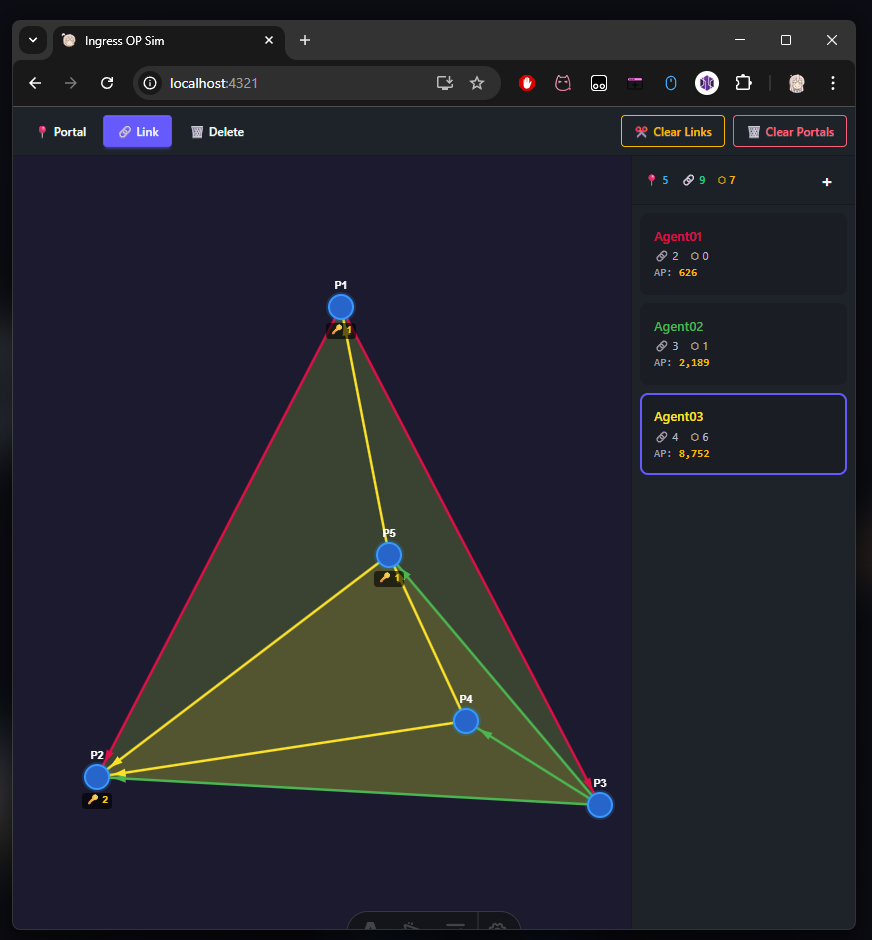
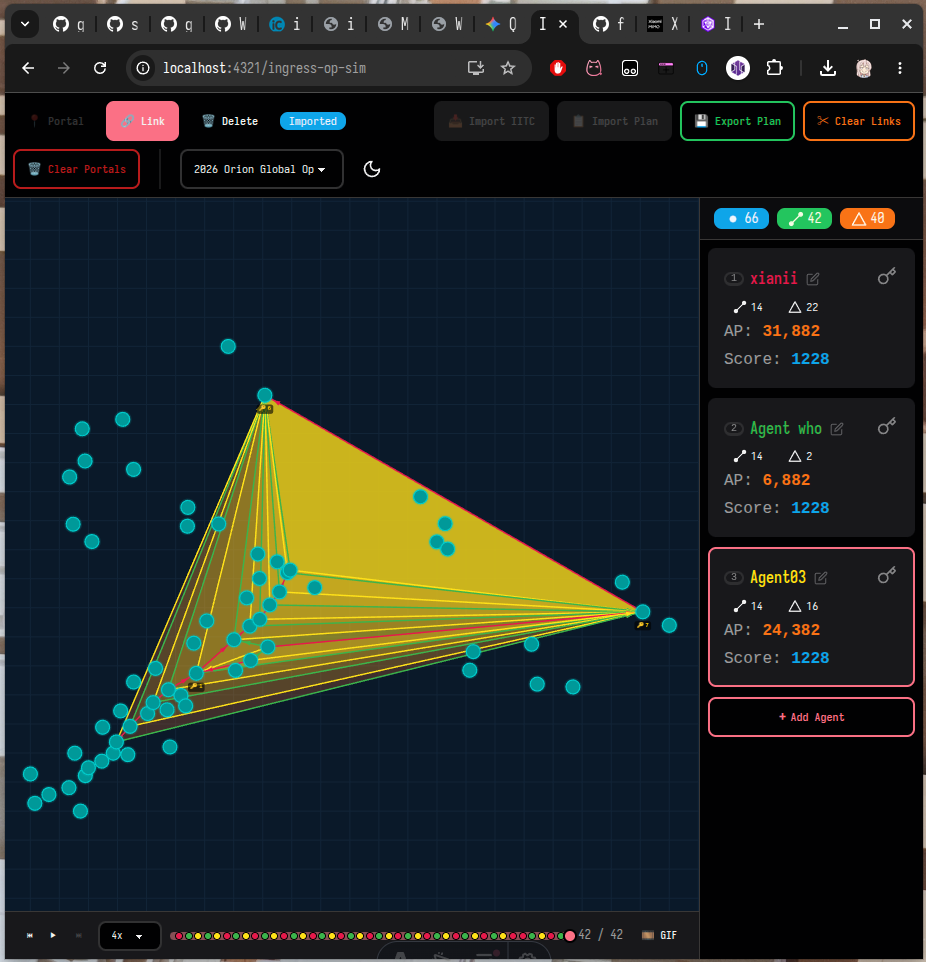
docs: update README with enhanced branding and feature list
- Improve README layout with centered HTML elements and logo
- Add direct link to the hosted application
- Expand feature list to include scoring, timeline playback, and export capabilities
- Update tool descriptions to reflect IITC and plan import/export functionality
- Update documentation screenshot

diff --git a/README.md b/README.md
@@ -1,57 +1,83 @@
-# Ingress OP Sim
+<p align="center">
+  <img src="./public/pwa-512x512.png" alt="Ingress OP Sim Logo" width="128" />
+</p>
 
-A web-based planning tool for [Ingress](https://ingress.com/) operations. Place portals on a canvas, build links between them, form control fields, and track per-agent AP in real time.
+<h1 align="center">Ingress OP Sim</h1>
 
-![Screenshot](./docs/screenshot.png)
+<p align="center">
+  A web-based planning tool for <a href="https://ingress.com/">Ingress</a> operations.<br />
+  Place portals, build links, form control fields, and track per-agent stats in real time.
+</p>
+
+<p align="center">
+  <a href="https://szres.github.io/ingress-op-sim/">Launch App</a>
+</p>
+
+## Quick Start
+
+Open the [app](https://szres.github.io/ingress-op-sim/) in your browser. No login or installation required. Works offline after first visit (PWA).
 
 ## Features
 
-- **Portal placement** — Click the canvas to drop portals (auto-named P1, P2, …)
+- **Portal placement** — Click the canvas to drop portals (auto-named P1, P2, …), or import from IITC
 - **Link creation** — Select an agent, click two portals to link them
 - **Field detection** — Triangles are auto-detected when a link completes a closed loop; multi-layer overlapping fields are fully supported
-- **Ingress rule enforcement** — Links that would cross an existing link are rejected, just like in the game
-- **Multi-agent tracking** — Add up to 16 agents, each with independent link count, field count, and AP
+- **Ingress rule enforcement** — No crossing links, outbound link limit of 40 per portal (4 SBUL mods)
+- **Multi-agent tracking** — Up to 16 agents, each with independent link count, field count, AP, and event score
 - **AP calculation** — +313 AP per link, +1250 AP per field, updated in real time
-- **Cascade deletion** — Deleting a portal removes all its links and dependent fields; deleting a link removes its fields
+- **Scoring rules** — Built-in event scoring (e.g. 2026 Orion Global Op) with per-agent breakdown
+- **Timeline playback** — Record every link action, scrub or auto-play the operation step by step
+- **GIF export** — Export the timeline as an animated GIF to share with your team
+- **Plan export / import** — Save and load entire operation plans as JSON files
+- **Key export** — Export per-agent key consumption as a markdown table
+- **IITC import** — Import real portal locations from [IITC](https://iitc.app/) using the [Multi Export](https://github.com/modkin/Ingress-IITC-Multi-Export) plugin (JSON format)
+- **Light / dark theme** — Toggle between themes; preference is saved locally
 - **PWA support** — Installable as a Progressive Web App for offline use
-
-## Getting Started
-
-Open the app in your browser. No login or installation required.
 
 ## How to Use
 
 ### Tools
 
-The toolbar at the top has three modes:
+The toolbar at the top provides the following tools:
 
 | Tool | What it does |
 |------|-------------|
-| **Portal** | Click an empty area on the canvas to place a new portal |
+| **Portal** | Click an empty area on the canvas to place a new portal (disabled when portals are imported from IITC) |
 | **Link** | Click portal A, then portal B to create a link between them |
 | **Delete** | Click a portal to remove it (and all connected links/fields), or click a link to remove just that link |
+| **Import IITC** | Import portals from an IITC JSON export; clears existing data and switches to link mode |
+| **Import Plan** | Load a previously saved plan (portals, agents, timeline) |
+| **Export Plan** | Save the current plan as a JSON file |
 
 ### Agents
 
-- The right panel shows all agents and their stats
+- The right panel shows all agents and their stats (link count, field count, AP, event score)
 - Click an agent card to select them — all new links will be credited to the selected agent
+- Press number keys `1`–`9` to quickly select agents by position
 - Use the **+** button to add more agents (up to 16)
-- Each agent independently tracks link count, field count, and AP
 
-### Clearing
+### IITC Portal Import
 
-- **Clear Portals** — Removes all portals, links, and fields; resets all agent stats
-- **Clear Links** — Removes all links and fields but keeps portals in place
+1. Install the [Ingress IITC Multi Export](https://github.com/modkin/Ingress-IITC-Multi-Export) plugin
+2. In IITC, export your portals using the **JSON** format
+3. Click **Import IITC** in the toolbar and select the JSON file
+4. Portals will appear on the canvas with their real locations; hover to see portal names
 
-## Roadmap
+### Timeline
 
-Planned features for future releases:
+Use the timeline bar at the bottom to:
 
-1. **Operation timeline** — Record every action in a step-by-step timeline
-2. **Export key lists** — Export per-agent key lists and operation sequences
-3. **IITC import** — Import real portal data from IITC for planning
-4. **Plan sharing** — Export and import operation plans to share with other agents
-5. **Event scoring** — Calculate scores for Ingress events (e.g., All kinds of Global ops)
+- Scrub through the operation step by step
+- Auto-play forward or backward at adjustable speed
+- Export the entire playback as an animated GIF
+
+### Scoring Rules
+
+Select a scoring rule from the dropdown in the toolbar to calculate event-specific scores for each agent. Currently includes:
+
+| Event | Link | Field (1 agent) | Field (2 agents) | Field (3 agents) |
+|-------|------|-----------------|-------------------|-------------------|
+| 2026 Orion Global Op | +2 | +4 each | +12 each | +30 each |
 
 ## License
 
